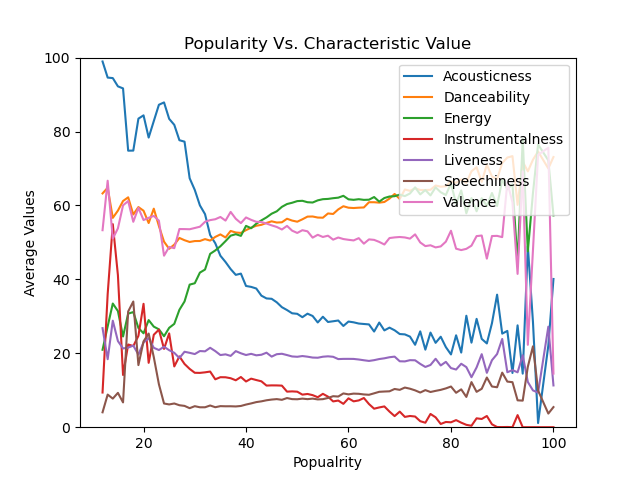
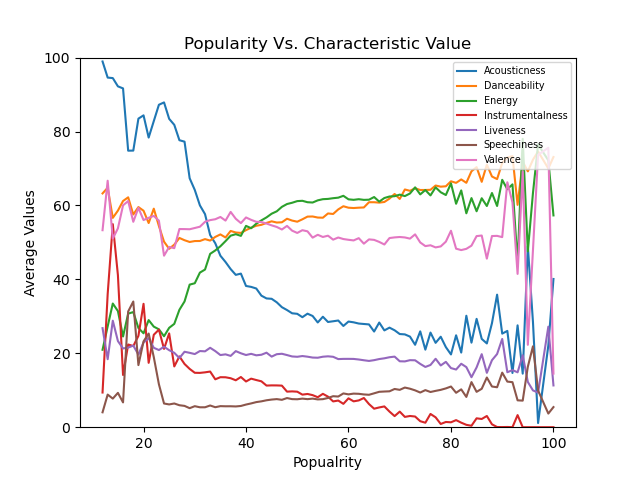
More Plotting

Changed region(s): [[0.625, 0.125, 0.9062, 0.4688], [0.625, 0.1562, 0.6562, 0.25], [0.625, 0.2812, 0.6562, 0.3438]]

diff --git a/main.py b/main.py
@@ -8,6 +8,7 @@ import pandas as pd
 import seaborn as sns
 import matplotlib.pyplot as plt
 import numpy as np
+from scipy.stats import linregress
 
 
 def create_characteristic_vs_time():
@@ -30,6 +31,7 @@ def create_characteristic_vs_time():
         sns.regplot(x=spot_df.index, y=characteristic, data=spot_df)
         adjust_plot_characteristic(characteristic, 'plots/characteristic_vs_time/',
                                    '_vs_time_reg')
+    plt.clf()
 
 
 def create_box_characteristic_vs_time():
@@ -49,6 +51,7 @@ def create_box_characteristic_vs_time():
         sns.boxplot(x='decade', y=characteristic, data=spot_df, showfliers=False)
         adjust_plot_characteristic(characteristic, 'plots/characteristic_vs_time/',
                                    '_vs_time_box')
+    plt.clf()
 
 
 def adjust_plot_characteristic(characteristic, folder_path, title):
@@ -92,6 +95,7 @@ def plot_characteristic_histogram():
     plt.title('Characteristics of Popular Music by Decade')
     plt.legend()
     plt.savefig('plots/Q_2/characteristic_histogram', bbox_inches='tight')
+    plt.clf()
 
 
 def plot_difference_characteristic_histogram():
@@ -124,6 +128,7 @@ def plot_difference_characteristic_histogram():
     plt.title('Characteristics of Popular - All Music by Decade')
     plt.legend()
     plt.savefig('plots/Q_2/characteristic_difference_histogram', bbox_inches='tight')
+    plt.clf()
 
 
 def load_spot_df_for_char():
@@ -153,6 +158,27 @@ def char_violin_plot():
         plt.clf()
 
 
+def smoothed_char_vs_pop():
+    spot_df = load_spot_df_for_char()
+    relevant_columns = ['acousticness', 'danceability', 'energy', 'instrumentalness',
+                        'liveness', 'speechiness', 'valence', 'popularity']
+    spot_df = spot_df[relevant_columns]
+    spot_df = spot_df.groupby('popularity').mean()
+
+    for char in spot_df:
+        spot_df[char] = spot_df[char].rolling(window=5).mean()
+
+    plt.plot(spot_df)
+    plt.ylim(0, 100)
+    plt.legend(['Acousticness', 'Danceability', 'Energy', 'Instrumentalness',
+                'Liveness', 'Speechiness', 'Valence'], loc='upper right', fontsize='x-small')
+    plt.title('Popularity Vs. Characteristic Value')
+    plt.ylabel('Average Values')
+    plt.xlabel('Popualrity')
+    plt.savefig('plots/Q_2/Smoothed_Popularity_vs_characteristic')
+    plt.clf()
+
+
 def plot_char_vs_pop():
     spot_df = load_spot_df_for_char()
     relevant_columns = ['acousticness', 'danceability', 'energy', 'instrumentalness',
@@ -163,11 +189,22 @@ def plot_char_vs_pop():
     plt.plot(spot_df)
     plt.ylim(0, 100)
     plt.legend(['Acousticness', 'Danceability', 'Energy', 'Instrumentalness',
-                'Liveness', 'Speechiness', 'Valence'], loc='upper right')
+                'Liveness', 'Speechiness', 'Valence'], loc='upper right', fontsize='x-small')
     plt.title('Popularity Vs. Characteristic Value')
     plt.ylabel('Average Values')
     plt.xlabel('Popualrity')
     plt.savefig('plots/Q_2/Popularity_vs_characteristic')
+    plt.clf()
+
+
+def calculate_r_value_char():
+    spot_df = load_spot_df_for_char()
+    relevant_columns = ['acousticness', 'danceability', 'energy', 'instrumentalness',
+                        'liveness', 'speechiness', 'valence', 'popularity']
+    spot_df = spot_df[relevant_columns]
+    spot_df = spot_df.groupby('popularity').mean()
+    
+    r_sq_values = pd.Dataframe()
 
 
 def main():
@@ -177,6 +214,7 @@ def main():
     # plot_difference_characteristic_histogram()
     # char_violin_plot()
     plot_char_vs_pop()
+    smoothed_char_vs_pop()
 
 
 if __name__ == '__main__':
